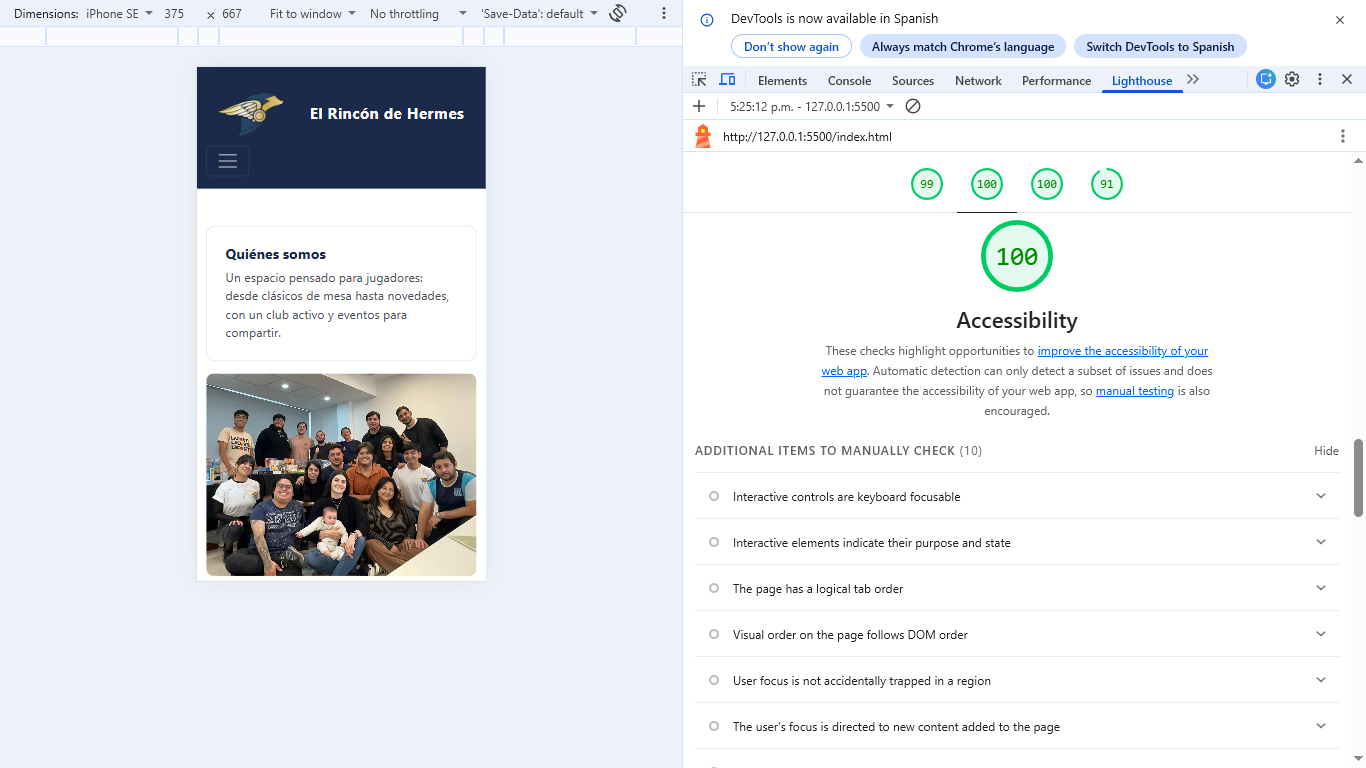
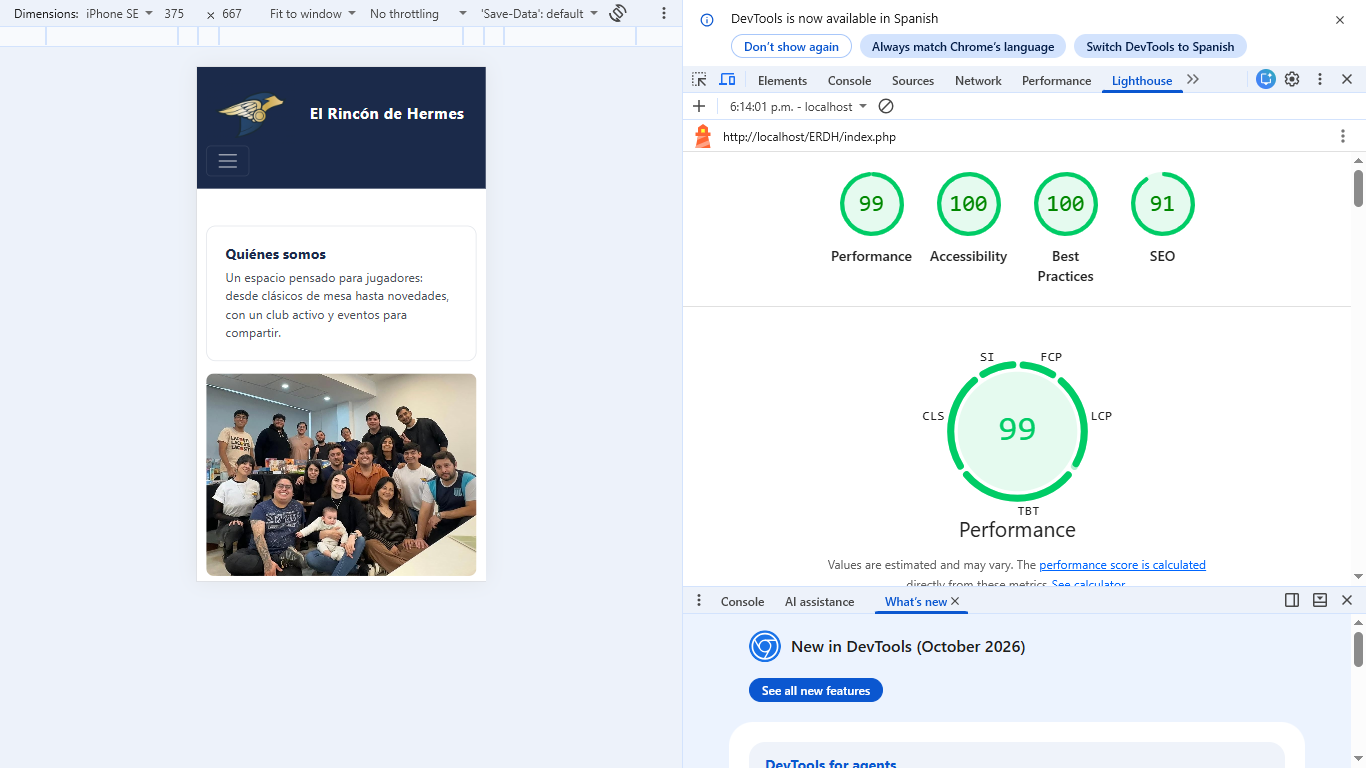
Correcciones finales

diff --git a/js/main.js b/js/main.js
@@ -1,2 +1,2 @@
-// El Rincón de Hermes — lógica del sitio
-// (Por ahora vacío: en esta etapa el sitio es solo maquetación estática)
+   // El Rincón de Hermes — lógica del sitio
+   // (Sin funcionalidad propia por ahora; Bootstrap maneja la interacción del menú)

diff --git a/includes/nav.php b/includes/nav.php
@@ -1,11 +1,16 @@
+<?php
+$pagina_actual = $pagina_actual ?? basename($_SERVER['PHP_SELF']);
+?>
+
+<header>
 <nav class="navbar navbar-expand-md navbar-erdh navbar-dark py-3">
     <div class="container">
 
-        <img src="img/logo.png" alt="Logo de El Rincón de Hermes" />
+    <img src="img/logo.png" alt="Logo de <?= htmlspecialchars($nombre_sitio) ?>" />
 
-        <a class="navbar-brand" href="index.php">
-            El Rincón de Hermes
-        </a>
+    <a class="navbar-brand" href="index.php">
+        <?= htmlspecialchars($nombre_sitio) ?>
+    </a>
 
         <button
             class="navbar-toggler"
@@ -74,3 +79,4 @@
         </div>
     </div>
 </nav>
+</header>

diff --git a/includes/footer.php b/includes/footer.php
@@ -1,11 +1,9 @@
 <footer class="footer-erdh py-4 mt-5">
-    <div
-        class="container d-flex flex-column flex-md-row justify-content-between align-items-center gap-2"
-    >
-        <span>&copy; 2026 El Rincón de Hermes</span>
+    <div class="container d-flex flex-column flex-md-row justify-content-between align-items-center gap-2">
+        <span>&copy; <?= date('Y') ?> <?= htmlspecialchars($nombre_sitio) ?></span>
 
-        <a href="contacto.php">
-            Contactanos
+        <a href="mailto:<?= htmlspecialchars($email_contacto) ?>">
+            <?= htmlspecialchars($email_contacto) ?>
         </a>
     </div>
 </footer>

diff --git a/config/env.php b/config/env.php
@@ -31,3 +31,8 @@ if (file_exists($archivo_env)) {
 $nombre_sitio = $_ENV['APP_NAME'] ?? 'El Rincón de Hermes';
 $email_contacto = $_ENV['APP_EMAIL'] ?? '';
 $entorno = $_ENV['APP_ENV'] ?? 'local';
+
+if ($entorno === 'local') {
+    ini_set('display_errors', '1');
+    error_reporting(E_ALL);
+}

diff --git a/auditoria-lighthouse.md b/auditoria-lighthouse.md
@@ -1,26 +1,19 @@
 # Auditoría de Lighthouse
 
-Documento de seguimiento de las auditorías de accesibilidad y rendimiento realizadas con Chrome DevTools (Lighthouse) sobre cada una de las 12 vistas del sitio.
+Documento de seguimiento de las auditorías de accesibilidad y rendimiento realizadas con Chrome DevTools (Lighthouse) sobre cada una de las 11 vistas del sitio, ejecutado en entorno local con XAMPP (`http://localhost/ERDH/`).
 
-> Completar esta tabla después de correr Lighthouse en cada página (DevTools → pestaña Lighthouse → Analyze page load).
-
-| Vista                 | Accesibilidad (antes → después) | Rendimiento | Cambios realizados |
-| --------------------- | ------------------------------- | ----------- | ------------------ |
-| Nosotros (index.html) | — → —                           | —           |                    |
-| Club (club.html)      | — → —                           | —           |                    |
-| Préstamo Infantil     | — → —                           | —           |                    |
-| Préstamo Familiar     | — → —                           | —           |                    |
-| Préstamo Experto      | — → —                           | —           |                    |
-| Tienda                | — → —                           | —           |                    |
-| Venta Infantil        | — → —                           | —           |                    |
-| Venta Familiar        | — → —                           | —           |                    |
-| Venta Experto         | — → —                           | —           |                    |
-| Eventos               | — → —                           | —           |                    |
-| Preguntas Frecuentes  | — → —                           | —           |                    |
-| Contacto              | — → —                           | —           |                    |
+> Para completar la tabla: abrir cada página en Chrome → DevTools (F12) → pestaña Lighthouse → Analyze page load. Registrar el puntaje de Accesibilidad antes y después de los cambios, y el de Rendimiento.
 
 ## Notas generales
 
-- Todas las imágenes (placeholders) incluyen `alt`/`aria-label` descriptivo.
+- Las vistas comparten `header.php`, `nav.php` y `footer.php` (SSI), por lo que una corrección de accesibilidad en una plantilla se aplica a todas las páginas.
+- Todas las imágenes incluyen `alt` o `aria-label` descriptivo.
+- El logo del menú usa un `alt` dinámico generado con el nombre del sitio (`APP_NAME` del archivo `.env`).
 - El acordeón de FAQ y el formulario de contacto usan atributos ARIA nativos de Bootstrap.
-- Pendiente: reemplazar placeholders por imágenes reales y volver a auditar.
+- Los campos del formulario de contacto tienen `<label>` asociado mediante `for`/`id`.
+- El menú de navegación indica la sección actual con la clase `active`, y cada página define su `<title>` de forma dinámica.
+- Pendiente: reemplazar los placeholders por imágenes reales y volver a auditar.
+
+## Evidencia
+
+![Resultado de accesibilidad](img/accesibilidad.png)

diff --git a/README.md b/README.md
@@ -8,51 +8,38 @@ Repositorio: https://github.com/Florare83/ERDH
 Wireframes y Mockups en Figma: https://www.figma.com/design/hipG4LOssrktKAuL9P4VDI/ERDH?node-id=16-458&t=eVWlSxP531yBRfNM-1
 
 ## Tecnologías utilizadas
-HTML5 — estructura semántica de las vistas.
-CSS3 — estilos personalizados mediante estilos css.
-Bootstrap 5.3 — sistema de grillas, navegación y componentes.
-JavaScript — funcionalidades e interacción del sitio.
-PHP — refactorización de las páginas y generación de contenido dinámico.
-XAMPP — servidor local utilizado para ejecutar Apache y PHP.
-Prettier — formateo automático del código.
-Lighthouse (Chrome DevTools) — auditoría de accesibilidad.
+- HTML5 — estructura semántica de las vistas.
+- CSS3 — estilos personalizados mediante estilos css.
+- Bootstrap 5.3 — sistema de grillas, navegación y componentes.
+- JavaScript — funcionalidades e interacción del sitio.
+- PHP 8.x — refactorización de las páginas y generación de contenido dinámico.
+- XAMPP — servidor local utilizado para ejecutar Apache y PHP.
+- Prettier — formateo automático del código.
+- Lighthouse (Chrome DevTools) — auditoría de accesibilidad.
 
 ## Refactorización a PHP
 Durante la refactorización se reemplazaron las páginas HTML por archivos PHP.
-
 Se implementó una estructura modular mediante plantillas reutilizables:
-
 includes/
 ├── header.php
 ├── nav.php
 └── footer.php
-
 Las páginas principales reutilizan estas plantillas mediante require_once, evitando repetir el código del encabezado, menú de navegación y pie de página.
-
 También se implementó navegación dinámica mediante la variable $pagina_actual, que permite determinar qué sección del menú debe mostrarse como activa.
-
 Además, el título de cada página se establece mediante la variable $titulo_pagina.
 
 ## Variables de entorno
 El proyecto utiliza un archivo .env para almacenar valores de configuración.
-
 Las variables utilizadas son:
-
 APP_NAME="El Rincón de Hermes"
 APP_EMAIL="email@ejemplo.com"
 APP_ENV=local
-
 El archivo .env no se incluye en el repositorio y está excluido mediante .gitignore.
-
 Para indicar las variables necesarias para ejecutar el proyecto se incluye el archivo:
-
 .env.example
-
 La configuración es cargada desde:
-
 config/
 └── env.php
-
 La carpeta node_modules/ no se incluye en el repositorio porque sus dependencias pueden instalarse nuevamente mediante npm.
 
 ## Instalación y ejecución local
@@ -61,6 +48,7 @@ git clone https://github.com/Florare83/ERDH.git
 2. Colocar el proyecto en XAMPP
 Copiar o clonar el proyecto dentro de la carpeta:
 C:\xampp\htdocs\
+3. Crear archivo .env
 Copiar .env.example y crear un archivo .env en la raíz del proyecto.
 Configurar las variables correspondientes:
 APP_NAME="El Rincón de Hermes"
@@ -95,5 +83,5 @@ El archivo .env.example contiene las variables necesarias para la configuración
 ## Resultado de la prueba de accesibilidad
 ![Accesibilidad](img/accesibilidad.png)
 
-## ## Estructura
+## Estructura
 ![Estructura](img/estructura.png)
